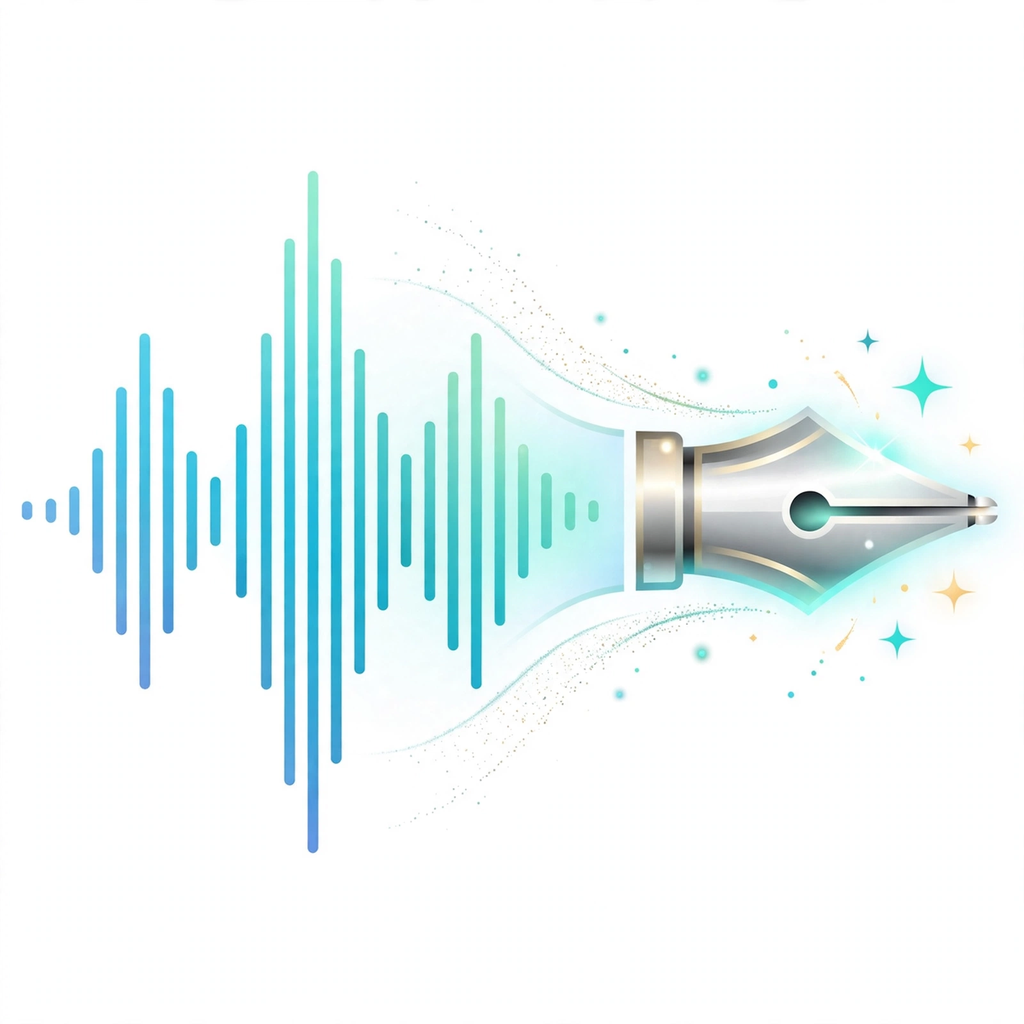
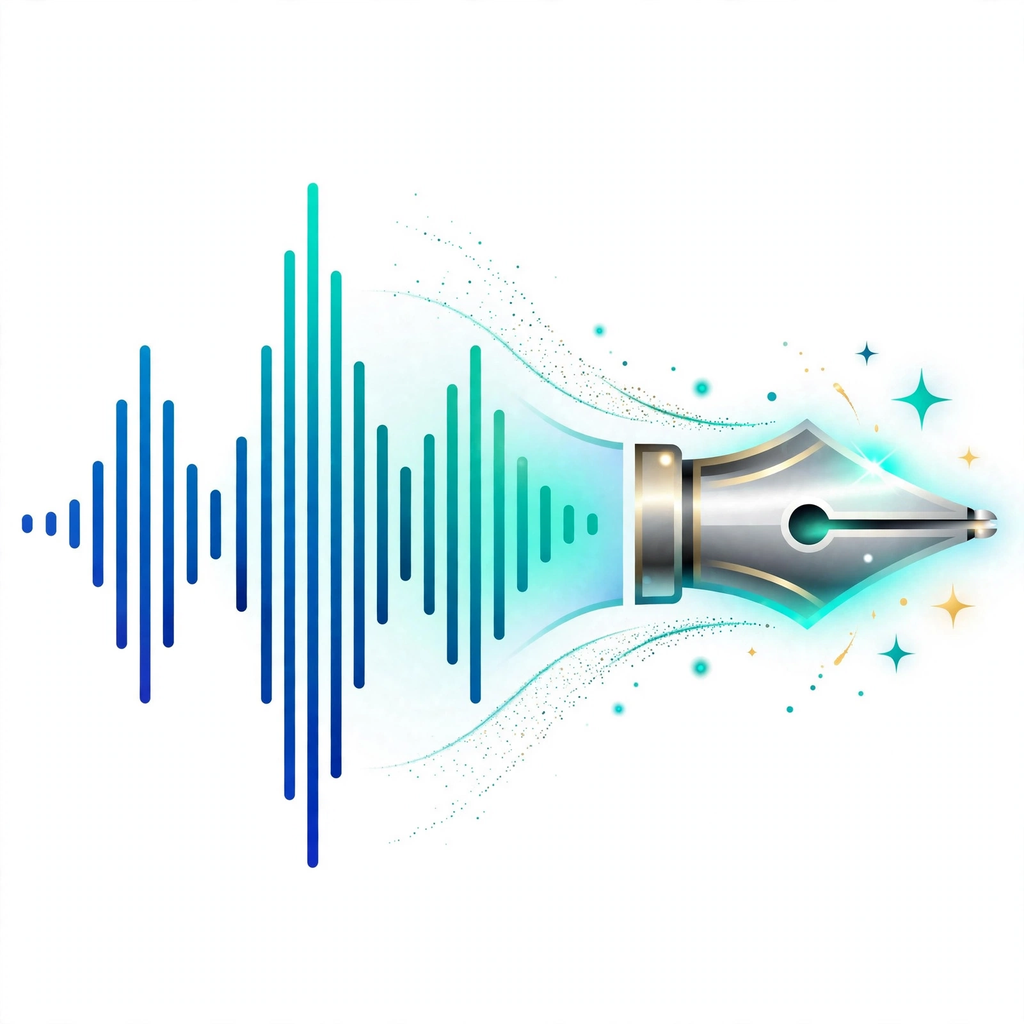
fork13 图标换成白底 v2 对比度优化版

Changed region(s): [[0.0, 0.1562, 1.0, 0.8438]]

diff --git a/FORK-NOTES.md b/FORK-NOTES.md
@@ -187,3 +187,11 @@ Watch 目录，产物只含主 App + 键盘（40MB），Sideloadly 免费 Apple 
   内部代码符号（VivaMode 等）、图标资源名、上游署名链接（n0an/VivaDicta）。
 - 另：fork11 的 release 资产已直接改名重挂为 changyan-unsigned.ipa
   （同字节，无需重编），不在本次提交内。
+
+## fork13（2026-10-21）：图标换成白底 v2 对比度优化版
+
+- 接 fork11 的 v1 白底版：用户反馈图形颜色太浅、跟白底太近看不清，
+  遂优化一版：白底与构图不变，声波加深为宝蓝→深青渐变、笔尖描边
+  与墨孔加深、星芒更饱和，对比度明显上来。
+- 改动：AppIcon3 图层 gpt1.png 与 VivaDictaIcon imageset 三档
+  （341/682/1024）全部换成 v2；图层偏移已是 0，本次不动。
